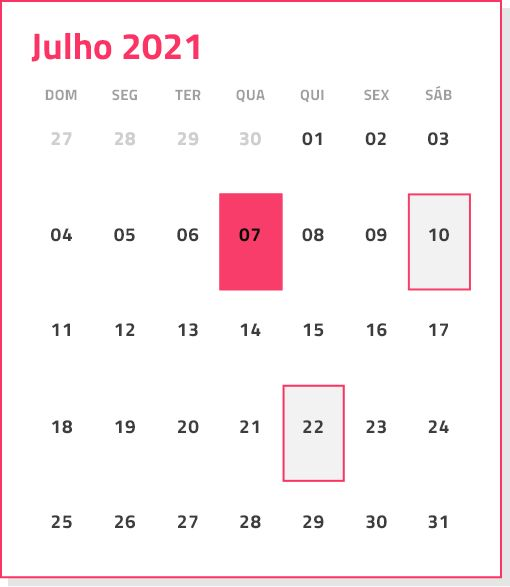
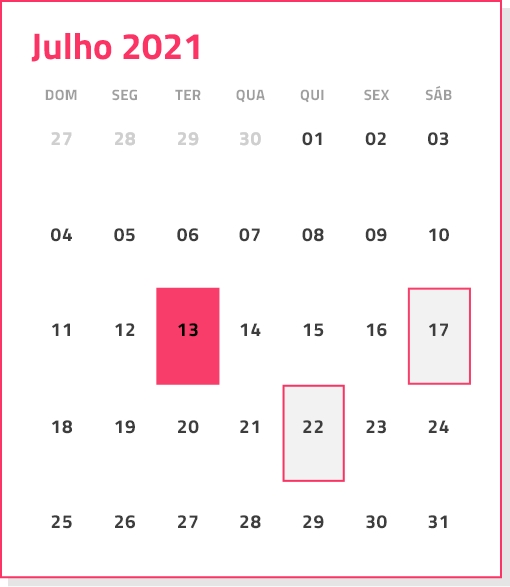
ajustes

Changed region(s): [[0.2941, 0.3066, 0.5588, 0.6746], [0.7941, 0.3066, 0.9412, 0.6746]]

diff --git a/index.html b/index.html
@@ -54,7 +54,7 @@
                 <img src="img/calendario.jpg" alt="calendario">
             </div>
             <div id="eventos-texto">
-                <p> <span id="data">10/07</span> - A eficácia da nutrição no tratamento oncológico
+                <p> <span id="data">17/07</span> - A eficácia da nutrição no tratamento oncológico
                     com <span id="doutora">Dra. Juliana Oliveira</span></p>
                     <div id="eventos-img">
                         <img src="img/Image1.svg" alt="Imagem ana">
